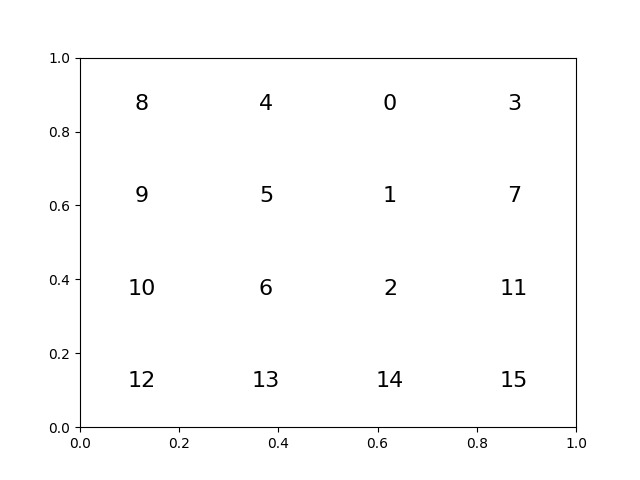
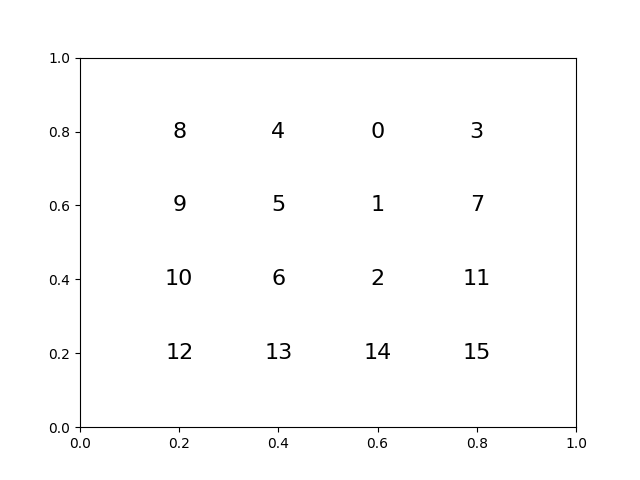
Deploying to gh-pages from  @ 4f9b6eecd7fc2ebec07d17f0035cbda6db2eba34 🚀

diff --git a/TwistyPuzzle/index.html b/TwistyPuzzle/index.html
@@ -1,4 +1,4 @@
-<!doctype html> <html lang=en > <meta charset=UTF-8 > <meta name=viewport  content="width=device-width, initial-scale=1"> <link rel=stylesheet  href="/libs/highlight/github.min.css"> <link rel=stylesheet  href="/css/franklin.css"> <link rel=stylesheet  href="/css/tufte.css"> <link rel=stylesheet  href="/css/latex.css"> <link rel=stylesheet  href="/css/adjust.css"> <link rel=stylesheet  href="https://apj.hgreer.com/blog"> <link rel=icon  href="/assets/favicon.png"> <script> fetch("https://apj.hgreer.com/referrer?" + document.referrer); </script> <title></title> <div id=layout > <div id=menu > <ul> <li><a href="/">Home</a> <!-- <li><a href="/FeatureMapICON/">Feature Map Inverse Consistency</a> --> <li><a href="/HatTile/">Aperiodic Tiling with Z3</a> <!-- <li><a href="/ICON/">Inverse Consistent Regstration</a> <li><a href="/Mandelbrot/">Mandelbrot Set Adventures</a> --> <li><a href="/JavascriptMandelbrot/">Mandelbrot Set</a> <li><a href="/TrebuchetSimulator/">Trebuchet Simulator</a> <li><a href="/BadMatrixMultiply/">Bad Matrix Multiplication</a> <li><a href="/TwistyPuzzle/">Twisty Puzzles</a> <li><a href="/GameJam/">Game Jam Games</a> <li><a href="/menu3/">Tags</a> </ul> </div> <div id=main > <div class=franklin-content ><img src="/assets/TwistyPuzzle/code/header.png" alt=""> <p>The in browser, playable rubiks cubes, including a pyraminx and a face turing octahedron, are currently hosted <a href="http://cubes.hgreer.com">here</a>. Hopefully this post will eventually get to explaining how they work</p> <p>Rubiks cubes are fascinating, and I&#39;ve been working on writing a post about solving them for a while. At first, I thought that the post would be about solving them, and the draft of that post is at &#40;link&#41; but I quickly realized that the post about solving them needed playable, embedded widgets where the reader could try the techniques in question. </p> <pre><code class="plaintext hljs">PyObject &lt;module &#x27;scipy&#x27; from &#x27;/opt/hostedtoolcache/Python/3.10.18/x64/lib/python3.10/site-packages/scipy/__init__.py&#x27;&gt;</code></pre>
+<!doctype html> <html lang=en > <meta charset=UTF-8 > <meta name=viewport  content="width=device-width, initial-scale=1"> <link rel=stylesheet  href="/libs/katex/katex.min.css"> <link rel=stylesheet  href="/libs/highlight/github.min.css"> <link rel=stylesheet  href="/css/franklin.css"> <link rel=stylesheet  href="/css/tufte.css"> <link rel=stylesheet  href="/css/latex.css"> <link rel=stylesheet  href="/css/adjust.css"> <link rel=stylesheet  href="https://apj.hgreer.com/blog"> <link rel=icon  href="/assets/favicon.png"> <script> fetch("https://apj.hgreer.com/referrer?" + document.referrer); </script> <title></title> <div id=layout > <div id=menu > <ul> <li><a href="/">Home</a> <!-- <li><a href="/FeatureMapICON/">Feature Map Inverse Consistency</a> --> <li><a href="/HatTile/">Aperiodic Tiling with Z3</a> <!-- <li><a href="/ICON/">Inverse Consistent Regstration</a> <li><a href="/Mandelbrot/">Mandelbrot Set Adventures</a> --> <li><a href="/JavascriptMandelbrot/">Mandelbrot Set</a> <li><a href="/TrebuchetSimulator/">Trebuchet Simulator</a> <li><a href="/BadMatrixMultiply/">Bad Matrix Multiplication</a> <li><a href="/TwistyPuzzle/">Twisty Puzzles</a> <li><a href="/GameJam/">Game Jam Games</a> <li><a href="/menu3/">Tags</a> </ul> </div> <div id=main > <div class=franklin-content ><img src="/assets/TwistyPuzzle/code/header.png" alt=""> <p>The in browser, playable rubiks cubes, including a pyraminx and a face turing octahedron, are currently hosted <a href="http://cubes.hgreer.com">here</a>. Hopefully this post will eventually get to explaining how they work</p> <p>Rubiks cubes are fascinating, and I&#39;ve been working on writing a post about solving them for a while. At first, I thought that the post would be about solving them, and the draft of that post is at &#40;link&#41; but I quickly realized that the post about solving them needed playable, embedded widgets where the reader could try the techniques in question. </p> <pre><code class="plaintext hljs">PyObject &lt;module &#x27;scipy&#x27; from &#x27;/opt/hostedtoolcache/Python/3.10.18/x64/lib/python3.10/site-packages/scipy/__init__.py&#x27;&gt;</code></pre>
 <p><a href=SolveARubiksCubeWithoutMemorization.md >The unfinishable post in question</a></p>
 <p>Thus, this post started, a prequel of sorts, about how to embed a twisty cube widget in a website. It becomes a bit of a journey.</p>
 <p>I started off implementing a copy of Simon Tatham&#39;s &quot;Twiddle&quot;, which is a simplified puzzle with rubiks like motion. Instead of stickers on cublets, it just has 16 tiles in a square, with the ability to turn 3x3 sub-sets of the puzzle by 90 degrees. I elected to represent the state of the puzzle and the moves as 16 x 16 permutation matrices. Then, I could apply a move  by simply multiplying it with the state. Render the puzzle by multiplying the state with a &quot;piece location&quot; matrix. </p>
@@ -9,11 +9,11 @@ state = np.eye(<span class=hljs-number >16</span>)
 display_matrix = []
 <span class=hljs-keyword >for</span> i <span class=hljs-keyword >in</span> range(<span class=hljs-number >4</span>):
   <span class=hljs-keyword >for</span> j <span class=hljs-keyword >in</span> range(<span class=hljs-number >4</span>):
-    display_matrix.append([j / <span class=hljs-number >4</span> + <span class=hljs-number >1</span>/<span class=hljs-number >8</span>, <span class=hljs-number >7</span>/<span class=hljs-number >8</span> - i / <span class=hljs-number >4</span>])
-display_matrix = np.array(display_matrix)
+    display_matrix.append([j, -i])
+display_matrix = np.array(display_matrix) - np.mean(display_matrix, axis=<span class=hljs-number >0</span>)
 def show(state):
   [plt.text(x, y, str(i), ha=&#x27;center&#x27;, va=&#x27;center&#x27;, fontsize=<span class=hljs-number >16</span>)
-   <span class=hljs-keyword >for</span> i, (x, y) <span class=hljs-keyword >in</span> enumerate(state @ display_matrix)]
+   <span class=hljs-keyword >for</span> i, (x, y) <span class=hljs-keyword >in</span> enumerate(state @ display_matrix / <span class=hljs-number >5</span> + <span class=hljs-number >.5</span>)]
 show(state)</code></pre>
 <img src="/assets/TwistyPuzzle/code/output/board.png" alt="">
 <p>Now, for a first pass, we just hand write the permutation for a single move</p>
@@ -42,6 +42,58 @@ show(A @ state)</code></pre>
 show(expm(logm(A) / <span class=hljs-number >2</span>) @ state)</code></pre>
 <img src="/assets/TwistyPuzzle/code/output/boardroot.png" alt="">
 <p>This works for any fraction of a turn we want, allowing easy smooth animation of any permutation.</p>
+<p>Now, writing out that matrix A sucked, and it&#39;s only going to get worse to do manually as we scale up the sticker count: Instead, lets let a computer find it&#33;</p>
+<p>The plan is to create a general function that takes a set of points &#40;such as the one in our display matrix&#41; and returns all the possible rotations of the the points that correspond to permutations of the points, simply by finding all solutions to </p>
+<span class=katex-display ><span class=katex ><span class=katex-mathml ><math xmlns="http://www.w3.org/1998/Math/MathML" display=block ><semantics><mrow><mi>A</mi><mi>D</mi><mo>=</mo><mi>D</mi><mi>Q</mi></mrow><annotation encoding="application/x-tex"> AD = DQ </annotation></semantics></math></span><span class=katex-html  aria-hidden=true ><span class=base ><span class=strut  style="height:0.68333em;vertical-align:0em;"></span><span class="mord mathnormal">A</span><span class="mord mathnormal" style="margin-right:0.02778em;">D</span><span class=mspace  style="margin-right:0.2777777777777778em;"></span><span class=mrel >=</span><span class=mspace  style="margin-right:0.2777777777777778em;"></span></span><span class=base ><span class=strut  style="height:0.8777699999999999em;vertical-align:-0.19444em;"></span><span class="mord mathnormal" style="margin-right:0.02778em;">D</span><span class="mord mathnormal">Q</span></span></span></span></span>
+<p>where <span class=katex ><span class=katex-mathml ><math xmlns="http://www.w3.org/1998/Math/MathML"><semantics><mrow><mi>D</mi></mrow><annotation encoding="application/x-tex">D</annotation></semantics></math></span><span class=katex-html  aria-hidden=true ><span class=base ><span class=strut  style="height:0.68333em;vertical-align:0em;"></span><span class="mord mathnormal" style="margin-right:0.02778em;">D</span></span></span></span> is the display matrix we computed earlier, <span class=katex ><span class=katex-mathml ><math xmlns="http://www.w3.org/1998/Math/MathML"><semantics><mrow><mi>A</mi></mrow><annotation encoding="application/x-tex">A</annotation></semantics></math></span><span class=katex-html  aria-hidden=true ><span class=base ><span class=strut  style="height:0.68333em;vertical-align:0em;"></span><span class="mord mathnormal">A</span></span></span></span> is a permutation, and <span class=katex ><span class=katex-mathml ><math xmlns="http://www.w3.org/1998/Math/MathML"><semantics><mrow><mi>Q</mi></mrow><annotation encoding="application/x-tex">Q</annotation></semantics></math></span><span class=katex-html  aria-hidden=true ><span class=base ><span class=strut  style="height:0.8777699999999999em;vertical-align:-0.19444em;"></span><span class="mord mathnormal">Q</span></span></span></span> is a physical rotation. </p>
+<p>This can be done efficiently by a backtracking solve. Let <span class=katex ><span class=katex-mathml ><math xmlns="http://www.w3.org/1998/Math/MathML"><semantics><mrow><mi>P</mi></mrow><annotation encoding="application/x-tex">P</annotation></semantics></math></span><span class=katex-html  aria-hidden=true ><span class=base ><span class=strut  style="height:0.68333em;vertical-align:0em;"></span><span class="mord mathnormal" style="margin-right:0.13889em;">P</span></span></span></span> be a prefix matrix, like </p>
+<span class=katex-display ><span class=katex ><span class=katex-mathml ><math xmlns="http://www.w3.org/1998/Math/MathML" display=block ><semantics><mrow><mi>P</mi><mo>=</mo><mrow><mo fence=true >(</mo><mtable rowspacing=0.1600em  columnalign="center center center center center center center center center" columnspacing=1em ><mtr><mtd><mstyle scriptlevel=0  displaystyle=false ><mn>1</mn></mstyle></mtd><mtd><mstyle scriptlevel=0  displaystyle=false ><mn>0</mn></mstyle></mtd><mtd><mstyle scriptlevel=0  displaystyle=false ><mn>0</mn></mstyle></mtd><mtd><mstyle scriptlevel=0  displaystyle=false ><mn>0</mn></mstyle></mtd><mtd><mstyle scriptlevel=0  displaystyle=false ><mn>0</mn></mstyle></mtd><mtd><mstyle scriptlevel=0  displaystyle=false ><mn>0</mn></mstyle></mtd><mtd><mstyle scriptlevel=0  displaystyle=false ><mn>0</mn></mstyle></mtd><mtd><mstyle scriptlevel=0  displaystyle=false ><mn>0</mn></mstyle></mtd></mtr><mtr><mtd><mstyle scriptlevel=0  displaystyle=false ><mn>0</mn></mstyle></mtd><mtd><mstyle scriptlevel=0  displaystyle=false ><mn>1</mn></mstyle></mtd><mtd><mstyle scriptlevel=0  displaystyle=false ><mn>0</mn></mstyle></mtd><mtd><mstyle scriptlevel=0  displaystyle=false ><mn>0</mn></mstyle></mtd><mtd><mstyle scriptlevel=0  displaystyle=false ><mn>0</mn></mstyle></mtd><mtd><mstyle scriptlevel=0  displaystyle=false ><mn>0</mn></mstyle></mtd><mtd><mstyle scriptlevel=0  displaystyle=false ><mn>0</mn></mstyle></mtd><mtd><mstyle scriptlevel=0  displaystyle=false ><mn>0</mn></mstyle></mtd></mtr><mtr><mtd><mstyle scriptlevel=0  displaystyle=false ><mn>0</mn></mstyle></mtd><mtd><mstyle scriptlevel=0  displaystyle=false ><mn>0</mn></mstyle></mtd><mtd><mstyle scriptlevel=0  displaystyle=false ><mn>1</mn></mstyle></mtd><mtd><mstyle scriptlevel=0  displaystyle=false ><mn>0</mn></mstyle></mtd><mtd><mstyle scriptlevel=0  displaystyle=false ><mn>0</mn></mstyle></mtd><mtd><mstyle scriptlevel=0  displaystyle=false ><mn>0</mn></mstyle></mtd><mtd><mstyle scriptlevel=0  displaystyle=false ><mn>0</mn></mstyle></mtd><mtd><mstyle scriptlevel=0  displaystyle=false ><mn>0</mn></mstyle></mtd><mtd><mstyle scriptlevel=0  displaystyle=false ><mrow><mi mathvariant=normal >.</mi><mi mathvariant=normal >.</mi><mi mathvariant=normal >.</mi></mrow></mstyle></mtd></mtr><mtr><mtd><mstyle scriptlevel=0  displaystyle=false ><mn>0</mn></mstyle></mtd><mtd><mstyle scriptlevel=0  displaystyle=false ><mn>0</mn></mstyle></mtd><mtd><mstyle scriptlevel=0  displaystyle=false ><mn>0</mn></mstyle></mtd><mtd><mstyle scriptlevel=0  displaystyle=false ><mn>1</mn></mstyle></mtd><mtd><mstyle scriptlevel=0  displaystyle=false ><mn>0</mn></mstyle></mtd><mtd><mstyle scriptlevel=0  displaystyle=false ><mn>0</mn></mstyle></mtd><mtd><mstyle scriptlevel=0  displaystyle=false ><mn>0</mn></mstyle></mtd><mtd><mstyle scriptlevel=0  displaystyle=false ><mn>0</mn></mstyle></mtd></mtr><mtr><mtd><mstyle scriptlevel=0  displaystyle=false ><mn>0</mn></mstyle></mtd><mtd><mstyle scriptlevel=0  displaystyle=false ><mn>0</mn></mstyle></mtd><mtd><mstyle scriptlevel=0  displaystyle=false ><mn>0</mn></mstyle></mtd><mtd><mstyle scriptlevel=0  displaystyle=false ><mn>0</mn></mstyle></mtd><mtd><mstyle scriptlevel=0  displaystyle=false ><mn>1</mn></mstyle></mtd><mtd><mstyle scriptlevel=0  displaystyle=false ><mn>0</mn></mstyle></mtd><mtd><mstyle scriptlevel=0  displaystyle=false ><mn>0</mn></mstyle></mtd><mtd><mstyle scriptlevel=0  displaystyle=false ><mn>0</mn></mstyle></mtd></mtr></mtable><mo fence=true >)</mo></mrow></mrow><annotation encoding="application/x-tex"> P = 
+\begin{pmatrix}
+1 &amp; 0 &amp; 0 &amp; 0 &amp; 0 &amp; 0 &amp; 0 &amp; 0 \\
+0 &amp; 1 &amp; 0 &amp; 0 &amp; 0 &amp; 0 &amp; 0 &amp; 0 \\
+0 &amp; 0 &amp; 1 &amp; 0 &amp; 0 &amp; 0 &amp; 0 &amp; 0  &amp; ...\\
+0 &amp; 0 &amp; 0 &amp; 1 &amp; 0 &amp; 0 &amp; 0 &amp; 0 \\
+0 &amp; 0 &amp; 0 &amp; 0 &amp; 1 &amp; 0 &amp; 0 &amp; 0
+\end{pmatrix}
+</annotation></semantics></math></span><span class=katex-html  aria-hidden=true ><span class=base ><span class=strut  style="height:0.68333em;vertical-align:0em;"></span><span class="mord mathnormal" style="margin-right:0.13889em;">P</span><span class=mspace  style="margin-right:0.2777777777777778em;"></span><span class=mrel >=</span><span class=mspace  style="margin-right:0.2777777777777778em;"></span></span><span class=base ><span class=strut  style="height:6.00008em;vertical-align:-2.75004em;"></span><span class=minner ><span class=mopen ><span class="delimsizing mult"><span class="vlist-t vlist-t2"><span class=vlist-r ><span class=vlist  style="height:3.25004em;"><span style="top:-2.31102em;"><span class=pstrut  style="height:4.41604em;"></span><span class="delimsizinginner delim-size4"><span>⎝</span></span></span><span style="top:-3.45802em;"><span class=pstrut  style="height:4.41604em;"></span><span style="height:2.4160399999999997em;width:0.875em;"><svg width='0.875em' height='2.4160399999999997em' style='width:0.875em' viewBox='0 0 875 2416' preserveAspectRatio='xMinYMin'><path d='M291 0 H417 V2416 H291z M291 0 H417 V2416 H291z'/></svg></span></span><span style="top:-6.511079999999999em;"><span class=pstrut  style="height:4.41604em;"></span><span class="delimsizinginner delim-size4"><span>⎛</span></span></span></span><span class=vlist-s ></span></span><span class=vlist-r ><span class=vlist  style="height:2.75004em;"><span></span></span></span></span></span></span><span class=mord ><span class=mtable ><span class=col-align-c ><span class="vlist-t vlist-t2"><span class=vlist-r ><span class=vlist  style="height:3.2500000000000004em;"><span style="top:-5.410000000000001em;"><span class=pstrut  style="height:3em;"></span><span class=mord ><span class=mord >1</span></span></span><span style="top:-4.21em;"><span class=pstrut  style="height:3em;"></span><span class=mord ><span class=mord >0</span></span></span><span style="top:-3.01em;"><span class=pstrut  style="height:3em;"></span><span class=mord ><span class=mord >0</span></span></span><span style="top:-1.8099999999999998em;"><span class=pstrut  style="height:3em;"></span><span class=mord ><span class=mord >0</span></span></span><span style="top:-0.6099999999999997em;"><span class=pstrut  style="height:3em;"></span><span class=mord ><span class=mord >0</span></span></span></span><span class=vlist-s ></span></span><span class=vlist-r ><span class=vlist  style="height:2.7500000000000004em;"><span></span></span></span></span></span><span class=arraycolsep  style="width:0.5em;"></span><span class=arraycolsep  style="width:0.5em;"></span><span class=col-align-c ><span class="vlist-t vlist-t2"><span class=vlist-r ><span class=vlist  style="height:3.2500000000000004em;"><span style="top:-5.410000000000001em;"><span class=pstrut  style="height:3em;"></span><span class=mord ><span class=mord >0</span></span></span><span style="top:-4.21em;"><span class=pstrut  style="height:3em;"></span><span class=mord ><span class=mord >1</span></span></span><span style="top:-3.01em;"><span class=pstrut  style="height:3em;"></span><span class=mord ><span class=mord >0</span></span></span><span style="top:-1.8099999999999998em;"><span class=pstrut  style="height:3em;"></span><span class=mord ><span class=mord >0</span></span></span><span style="top:-0.6099999999999997em;"><span class=pstrut  style="height:3em;"></span><span class=mord ><span class=mord >0</span></span></span></span><span class=vlist-s ></span></span><span class=vlist-r ><span class=vlist  style="height:2.7500000000000004em;"><span></span></span></span></span></span><span class=arraycolsep  style="width:0.5em;"></span><span class=arraycolsep  style="width:0.5em;"></span><span class=col-align-c ><span class="vlist-t vlist-t2"><span class=vlist-r ><span class=vlist  style="height:3.2500000000000004em;"><span style="top:-5.410000000000001em;"><span class=pstrut  style="height:3em;"></span><span class=mord ><span class=mord >0</span></span></span><span style="top:-4.21em;"><span class=pstrut  style="height:3em;"></span><span class=mord ><span class=mord >0</span></span></span><span style="top:-3.01em;"><span class=pstrut  style="height:3em;"></span><span class=mord ><span class=mord >1</span></span></span><span style="top:-1.8099999999999998em;"><span class=pstrut  style="height:3em;"></span><span class=mord ><span class=mord >0</span></span></span><span style="top:-0.6099999999999997em;"><span class=pstrut  style="height:3em;"></span><span class=mord ><span class=mord >0</span></span></span></span><span class=vlist-s ></span></span><span class=vlist-r ><span class=vlist  style="height:2.7500000000000004em;"><span></span></span></span></span></span><span class=arraycolsep  style="width:0.5em;"></span><span class=arraycolsep  style="width:0.5em;"></span><span class=col-align-c ><span class="vlist-t vlist-t2"><span class=vlist-r ><span class=vlist  style="height:3.2500000000000004em;"><span style="top:-5.410000000000001em;"><span class=pstrut  style="height:3em;"></span><span class=mord ><span class=mord >0</span></span></span><span style="top:-4.21em;"><span class=pstrut  style="height:3em;"></span><span class=mord ><span class=mord >0</span></span></span><span style="top:-3.01em;"><span class=pstrut  style="height:3em;"></span><span class=mord ><span class=mord >0</span></span></span><span style="top:-1.8099999999999998em;"><span class=pstrut  style="height:3em;"></span><span class=mord ><span class=mord >1</span></span></span><span style="top:-0.6099999999999997em;"><span class=pstrut  style="height:3em;"></span><span class=mord ><span class=mord >0</span></span></span></span><span class=vlist-s ></span></span><span class=vlist-r ><span class=vlist  style="height:2.7500000000000004em;"><span></span></span></span></span></span><span class=arraycolsep  style="width:0.5em;"></span><span class=arraycolsep  style="width:0.5em;"></span><span class=col-align-c ><span class="vlist-t vlist-t2"><span class=vlist-r ><span class=vlist  style="height:3.2500000000000004em;"><span style="top:-5.410000000000001em;"><span class=pstrut  style="height:3em;"></span><span class=mord ><span class=mord >0</span></span></span><span style="top:-4.21em;"><span class=pstrut  style="height:3em;"></span><span class=mord ><span class=mord >0</span></span></span><span style="top:-3.01em;"><span class=pstrut  style="height:3em;"></span><span class=mord ><span class=mord >0</span></span></span><span style="top:-1.8099999999999998em;"><span class=pstrut  style="height:3em;"></span><span class=mord ><span class=mord >0</span></span></span><span style="top:-0.6099999999999997em;"><span class=pstrut  style="height:3em;"></span><span class=mord ><span class=mord >1</span></span></span></span><span class=vlist-s ></span></span><span class=vlist-r ><span class=vlist  style="height:2.7500000000000004em;"><span></span></span></span></span></span><span class=arraycolsep  style="width:0.5em;"></span><span class=arraycolsep  style="width:0.5em;"></span><span class=col-align-c ><span class="vlist-t vlist-t2"><span class=vlist-r ><span class=vlist  style="height:3.2500000000000004em;"><span style="top:-5.410000000000001em;"><span class=pstrut  style="height:3em;"></span><span class=mord ><span class=mord >0</span></span></span><span style="top:-4.21em;"><span class=pstrut  style="height:3em;"></span><span class=mord ><span class=mord >0</span></span></span><span style="top:-3.01em;"><span class=pstrut  style="height:3em;"></span><span class=mord ><span class=mord >0</span></span></span><span style="top:-1.8099999999999998em;"><span class=pstrut  style="height:3em;"></span><span class=mord ><span class=mord >0</span></span></span><span style="top:-0.6099999999999997em;"><span class=pstrut  style="height:3em;"></span><span class=mord ><span class=mord >0</span></span></span></span><span class=vlist-s ></span></span><span class=vlist-r ><span class=vlist  style="height:2.7500000000000004em;"><span></span></span></span></span></span><span class=arraycolsep  style="width:0.5em;"></span><span class=arraycolsep  style="width:0.5em;"></span><span class=col-align-c ><span class="vlist-t vlist-t2"><span class=vlist-r ><span class=vlist  style="height:3.2500000000000004em;"><span style="top:-5.410000000000001em;"><span class=pstrut  style="height:3em;"></span><span class=mord ><span class=mord >0</span></span></span><span style="top:-4.21em;"><span class=pstrut  style="height:3em;"></span><span class=mord ><span class=mord >0</span></span></span><span style="top:-3.01em;"><span class=pstrut  style="height:3em;"></span><span class=mord ><span class=mord >0</span></span></span><span style="top:-1.8099999999999998em;"><span class=pstrut  style="height:3em;"></span><span class=mord ><span class=mord >0</span></span></span><span style="top:-0.6099999999999997em;"><span class=pstrut  style="height:3em;"></span><span class=mord ><span class=mord >0</span></span></span></span><span class=vlist-s ></span></span><span class=vlist-r ><span class=vlist  style="height:2.7500000000000004em;"><span></span></span></span></span></span><span class=arraycolsep  style="width:0.5em;"></span><span class=arraycolsep  style="width:0.5em;"></span><span class=col-align-c ><span class="vlist-t vlist-t2"><span class=vlist-r ><span class=vlist  style="height:3.2500000000000004em;"><span style="top:-5.410000000000001em;"><span class=pstrut  style="height:3em;"></span><span class=mord ><span class=mord >0</span></span></span><span style="top:-4.21em;"><span class=pstrut  style="height:3em;"></span><span class=mord ><span class=mord >0</span></span></span><span style="top:-3.01em;"><span class=pstrut  style="height:3em;"></span><span class=mord ><span class=mord >0</span></span></span><span style="top:-1.8099999999999998em;"><span class=pstrut  style="height:3em;"></span><span class=mord ><span class=mord >0</span></span></span><span style="top:-0.6099999999999997em;"><span class=pstrut  style="height:3em;"></span><span class=mord ><span class=mord >0</span></span></span></span><span class=vlist-s ></span></span><span class=vlist-r ><span class=vlist  style="height:2.7500000000000004em;"><span></span></span></span></span></span><span class=arraycolsep  style="width:0.5em;"></span><span class=arraycolsep  style="width:0.5em;"></span><span class=col-align-c ><span class="vlist-t vlist-t2"><span class=vlist-r ><span class=vlist  style="height:0.8500000000000003em;"><span style="top:-3.0100000000000002em;"><span class=pstrut  style="height:3em;"></span><span class=mord ><span class=mord >...</span></span></span></span><span class=vlist-s ></span></span><span class=vlist-r ><span class=vlist  style="height:0.3499999999999998em;"><span></span></span></span></span></span></span></span><span class=mclose ><span class="delimsizing mult"><span class="vlist-t vlist-t2"><span class=vlist-r ><span class=vlist  style="height:3.25004em;"><span style="top:-2.31102em;"><span class=pstrut  style="height:4.41604em;"></span><span class="delimsizinginner delim-size4"><span>⎠</span></span></span><span style="top:-3.45802em;"><span class=pstrut  style="height:4.41604em;"></span><span style="height:2.4160399999999997em;width:0.875em;"><svg width='0.875em' height='2.4160399999999997em' style='width:0.875em' viewBox='0 0 875 2416' preserveAspectRatio='xMinYMin'><path d='M457 0 H583 V2416 H457z M457 0 H583 V2416 H457z'/></svg></span></span><span style="top:-6.511079999999999em;"><span class=pstrut  style="height:4.41604em;"></span><span class="delimsizinginner delim-size4"><span>⎞</span></span></span></span><span class=vlist-s ></span></span><span class=vlist-r ><span class=vlist  style="height:2.75004em;"><span></span></span></span></span></span></span></span></span></span></span></span>
+<p>Think of this as <span class=katex ><span class=katex-mathml ><math xmlns="http://www.w3.org/1998/Math/MathML"><semantics><mrow><mi>P</mi><mi>A</mi></mrow><annotation encoding="application/x-tex">PA</annotation></semantics></math></span><span class=katex-html  aria-hidden=true ><span class=base ><span class=strut  style="height:0.68333em;vertical-align:0em;"></span><span class="mord mathnormal" style="margin-right:0.13889em;">P</span><span class="mord mathnormal">A</span></span></span></span> takes the first 5 rows of <span class=katex ><span class=katex-mathml ><math xmlns="http://www.w3.org/1998/Math/MathML"><semantics><mrow><mi>A</mi></mrow><annotation encoding="application/x-tex">A</annotation></semantics></math></span><span class=katex-html  aria-hidden=true ><span class=base ><span class=strut  style="height:0.68333em;vertical-align:0em;"></span><span class="mord mathnormal">A</span></span></span></span></p>
+<p>Then, if <span class=katex ><span class=katex-mathml ><math xmlns="http://www.w3.org/1998/Math/MathML"><semantics><mrow><mi>A</mi><mi>D</mi><mo>=</mo><mi>D</mi><mi>Q</mi></mrow><annotation encoding="application/x-tex">AD = DQ</annotation></semantics></math></span><span class=katex-html  aria-hidden=true ><span class=base ><span class=strut  style="height:0.68333em;vertical-align:0em;"></span><span class="mord mathnormal">A</span><span class="mord mathnormal" style="margin-right:0.02778em;">D</span><span class=mspace  style="margin-right:0.2777777777777778em;"></span><span class=mrel >=</span><span class=mspace  style="margin-right:0.2777777777777778em;"></span></span><span class=base ><span class=strut  style="height:0.8777699999999999em;vertical-align:-0.19444em;"></span><span class="mord mathnormal" style="margin-right:0.02778em;">D</span><span class="mord mathnormal">Q</span></span></span></span>, we know that <span class=katex ><span class=katex-mathml ><math xmlns="http://www.w3.org/1998/Math/MathML"><semantics><mrow><mi>P</mi><mi>A</mi><mi>D</mi><mo>=</mo><mi>P</mi><mi>D</mi><mi>Q</mi></mrow><annotation encoding="application/x-tex">PAD = PDQ</annotation></semantics></math></span><span class=katex-html  aria-hidden=true ><span class=base ><span class=strut  style="height:0.68333em;vertical-align:0em;"></span><span class="mord mathnormal" style="margin-right:0.13889em;">P</span><span class="mord mathnormal">A</span><span class="mord mathnormal" style="margin-right:0.02778em;">D</span><span class=mspace  style="margin-right:0.2777777777777778em;"></span><span class=mrel >=</span><span class=mspace  style="margin-right:0.2777777777777778em;"></span></span><span class=base ><span class=strut  style="height:0.8777699999999999em;vertical-align:-0.19444em;"></span><span class="mord mathnormal" style="margin-right:0.13889em;">P</span><span class="mord mathnormal" style="margin-right:0.02778em;">D</span><span class="mord mathnormal">Q</span></span></span></span></p>
+<p>This lets us use a standard recursive iterator through all permutations, but with pruning whenever PAD &#61; PDQ is unsolvable.</p>
+<pre><code class="julia hljs">def AD_DQ_solve(D):
+
+    def feasible(prefix):
+        PA = np.eye(len(D))[prefix]
+        P = np.eye(len(D))[: len(prefix)]
+        Q, residuals, _rank, _singular_values = np.linalg.lstsq(P<span class=hljs-meta >@D</span>, PA<span class=hljs-meta >@D</span>)
+
+        <span class=hljs-keyword >if</span> np.abs(np.linalg.det(Q) + <span class=hljs-number >1</span>) &lt; <span class=hljs-number >.001</span>:
+            <span class=hljs-keyword >return</span> False
+
+        <span class=hljs-keyword >if</span> len(prefix) == len(D):
+            permutations.append(PA)
+            rotations.append(Q)
+            <span class=hljs-keyword >return</span> False
+
+        <span class=hljs-keyword >return</span> len(residuals) == <span class=hljs-number >0</span> or (np.max(np.abs(residuals)) &lt; <span class=hljs-number >0.0001</span>).item()
+
+    def recursive_permutations(prefix):
+        <span class=hljs-keyword >for</span> i <span class=hljs-keyword >in</span> range(len(D)):
+            <span class=hljs-keyword >if</span> not i <span class=hljs-keyword >in</span> prefix:
+                continuation = prefix + [i]
+                <span class=hljs-keyword >if</span> feasible(continuation):
+                    recursive_permutations(continuation)
+
+    permutations = []
+    rotations = []
+    recursive_permutations([])
+    <span class=hljs-keyword >return</span> permutations, rotations
+global_perms, global_rotations = AD_DQ_solve(display_matrix)
+[print(np.argmax(perm, axis=<span class=hljs-number >0</span>)) <span class=hljs-keyword >for</span> perm <span class=hljs-keyword >in</span> global_perms]</code></pre><pre><code class="plaintext hljs">[ 0  1  2  3  4  5  6  7  8  9 10 11 12 13 14 15]
+[12  8  4  0 13  9  5  1 14 10  6  2 15 11  7  3]
+[ 3  7 11 15  2  6 10 14  1  5  9 13  0  4  8 12]
+[15 14 13 12 11 10  9  8  7  6  5  4  3  2  1  0]
+</code></pre>
+<p>This <code>global_perms</code> array is super useful, because </p>
 
 
 <div class=page-foot >
